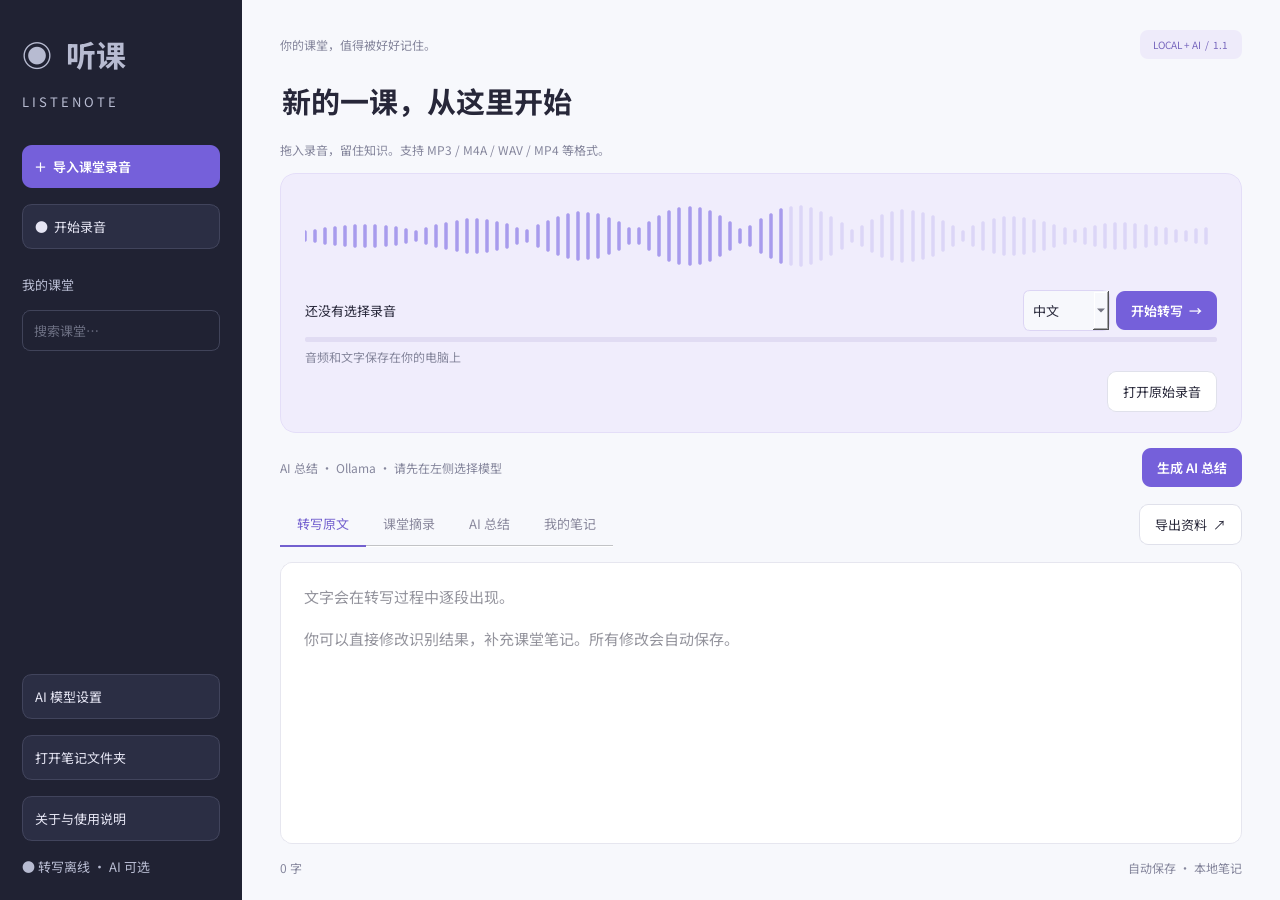
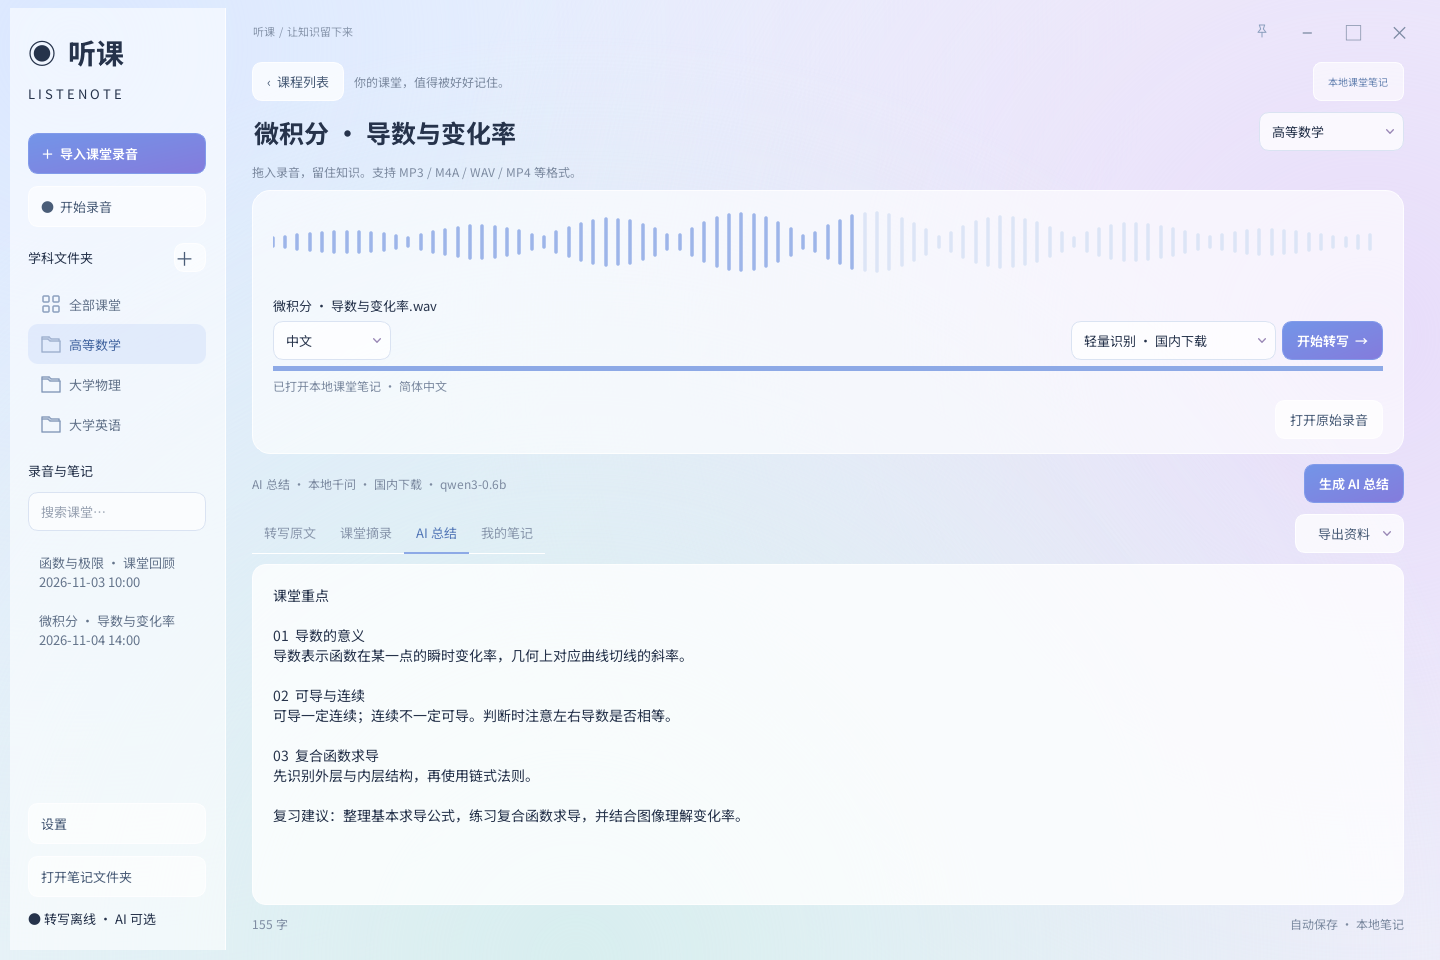
Refresh GitHub screenshots for Listenote 2.0 themes and settings

diff --git a/README.md b/README.md
@@ -2,7 +2,22 @@
 
 Windows 10/11 x64 课堂录音、离线转写、笔记与可选 AI 总结工具。
 
-![Listenote 界面预览](界面预览.png)
+![Listenote 2.0 亮色主题](界面预览.png?v=2.0)
+
+Listenote 2.0 实际界面，截图中的课堂内容为演示数据。
+
+<details>
+<summary>查看暗色主题与界面设置</summary>
+
+暗色主题：
+
+![Listenote 2.0 暗色主题](docs/images/listenote-2-dark.png)
+
+界面设置：支持亮、暗和跟随系统，“界面设置”位于设置列表第一项。
+
+![Listenote 2.0 界面设置](docs/images/listenote-2-appearance.png)
+
+</details>
 
 ## 下载安装
 
